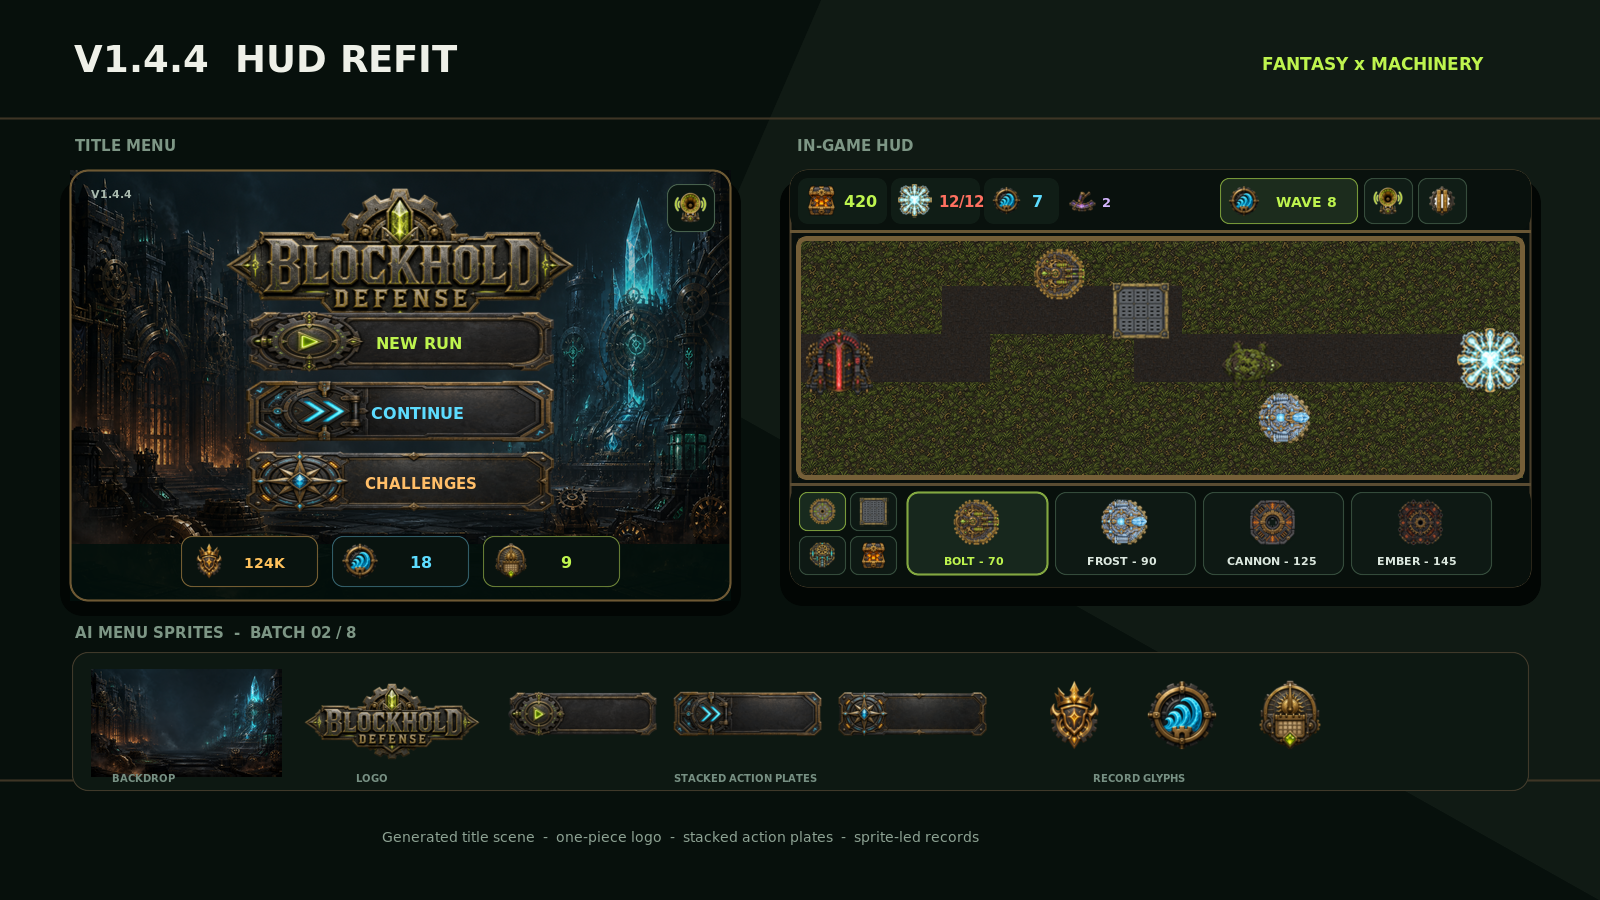
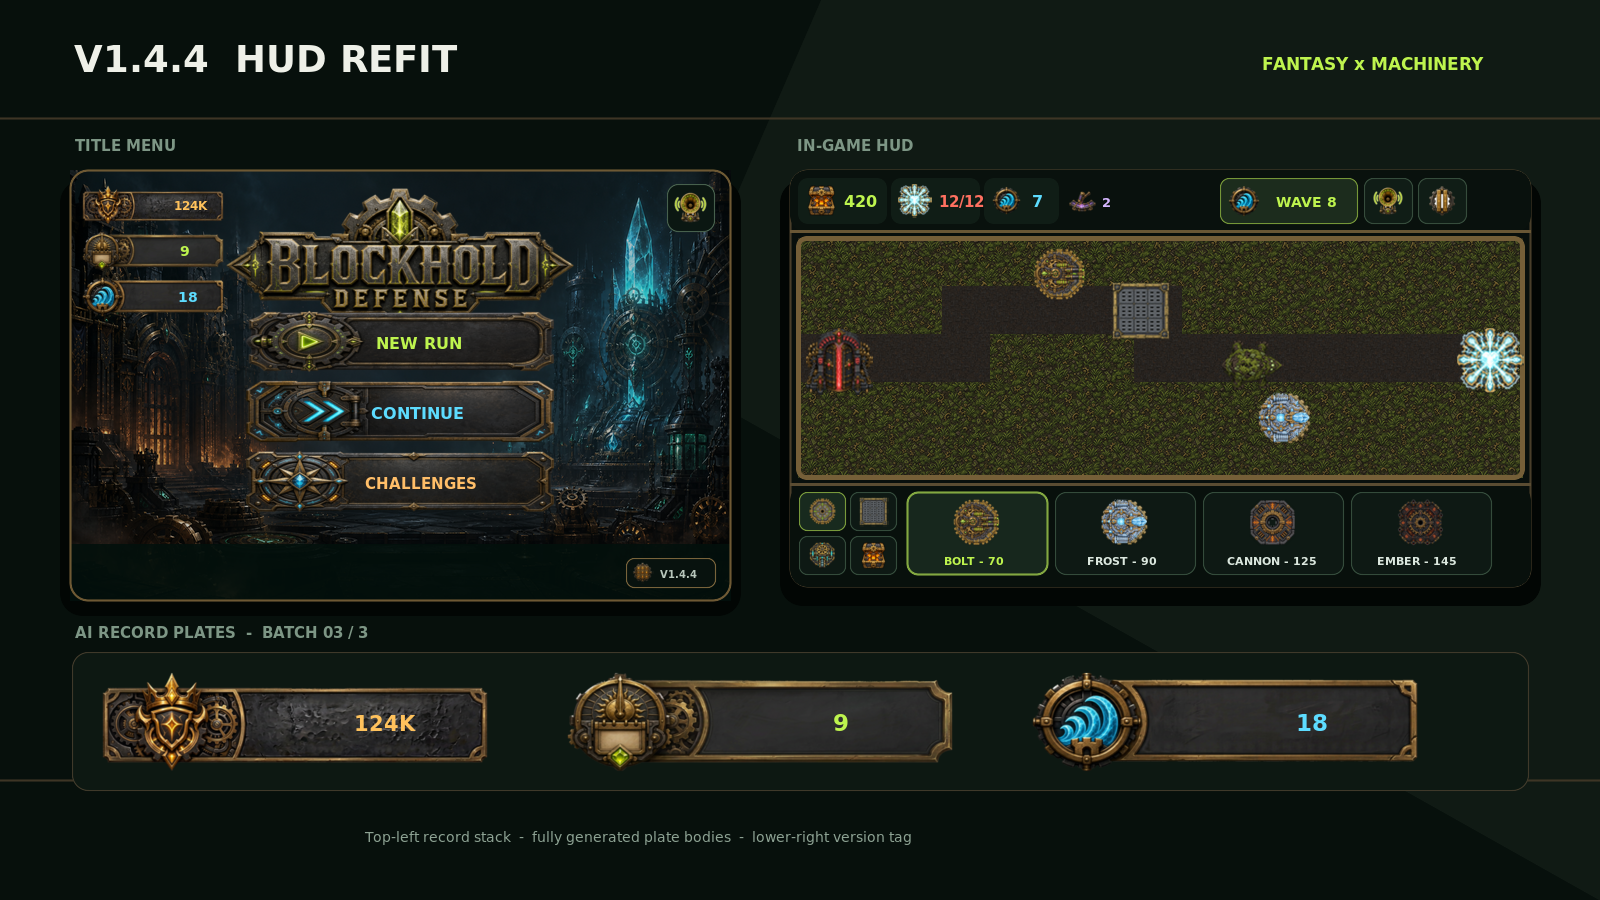
Complete sprite-backed title records
Add generated Best, Daily, and Wave record plates, stack them in the title's top-left, relocate the version tag, and refresh the deterministic preview and provenance docs.\n\nCo-authored-by: arena-agent <297053741+arena-agent@users.noreply.github.com>

diff --git a/app/src/main/java/ai/techtroy/blockhold/GameView.kt b/app/src/main/java/ai/techtroy/blockhold/GameView.kt
@@ -4135,7 +4135,6 @@ internal class GameView(context: Context) : SurfaceView(context), SurfaceHolder.
         drawMenuBackdrop(canvas, 42)
 
         // The generated logo is one packaged sprite: no live title typography remains.
-        drawText(canvas, versionLabel.uppercase(), dp(16f), dp(25f), dp(8f), Color.rgb(173, 191, 179), Paint.Align.LEFT, true)
         drawIconButton(
             canvas,
             titleSoundRect,
@@ -4153,17 +4152,18 @@ internal class GameView(context: Context) : SurfaceView(context), SurfaceHolder.
         drawTitleMenuButton(canvas, titleContinueRect, sprites.titleButtonContinue, "CONTINUE", Color.rgb(93, 220, 255), savedRunAvailable)
         drawTitleMenuButton(canvas, titleChallengeRect, sprites.titleButtonChallenges, "CHALLENGES", Color.rgb(255, 190, 104), true)
 
-        // Record glyphs replace the old tiny BEST / WAVE / DAILY sentence and sit in a
-        // dedicated lower rail where neither the logo nor the action stack obscures them.
-        val recordHeight = min(dp(48f), viewHeight * 0.085f)
-        val recordWidth = min(dp(128f), viewWidth * 0.17f)
-        val recordGap = min(dp(9f), viewWidth * 0.012f)
-        val recordTotal = recordWidth * 3f + recordGap * 2f
-        val recordLeft = (viewWidth - recordTotal) * 0.5f
-        val recordTop = viewHeight - recordHeight - min(dp(8f), viewHeight * 0.018f)
-        drawMenuRecordChip(canvas, recordLeft, recordTop, recordWidth, recordHeight, sprites.menuBadgeBest, formatNumber(bestScore), Color.rgb(255, 194, 92))
-        drawMenuRecordChip(canvas, recordLeft + recordWidth + recordGap, recordTop, recordWidth, recordHeight, sprites.menuBadgeWave, bestWave.toString(), Color.rgb(93, 220, 255))
-        drawMenuRecordChip(canvas, recordLeft + (recordWidth + recordGap) * 2f, recordTop, recordWidth, recordHeight, sprites.menuBadgeDaily, bestDailyWave.toString(), Color.rgb(190, 244, 78))
+        // Batch 03 gives each record its own generated plate and moves the three into a
+        // quiet top-left vertical stack. Order follows the menu hierarchy: Best, Daily, Wave.
+        val recordHeight = min(dp(52f), viewHeight * 0.078f)
+        val recordWidth = min(viewWidth * 0.235f, min(dp(190f), recordHeight * 3.65f))
+        val recordGap = min(dp(6f), viewHeight * 0.010f)
+        val recordLeft = min(dp(12f), viewWidth * 0.014f)
+        val recordTop = min(dp(12f), viewHeight * 0.020f)
+        drawMenuRecordPlate(canvas, recordLeft, recordTop, recordWidth, recordHeight, sprites.menuRecordBestPlate, formatNumber(bestScore), Color.rgb(255, 194, 92))
+        drawMenuRecordPlate(canvas, recordLeft, recordTop + recordHeight + recordGap, recordWidth, recordHeight, sprites.menuRecordDailyPlate, bestDailyWave.toString(), Color.rgb(190, 244, 78))
+        drawMenuRecordPlate(canvas, recordLeft, recordTop + (recordHeight + recordGap) * 2f, recordWidth, recordHeight, sprites.menuRecordWavePlate, bestWave.toString(), Color.rgb(93, 220, 255))
+
+        drawVersionTag(canvas)
     }
 
     private fun drawMenuBackdrop(canvas: Canvas, dimAlpha: Int) {
@@ -4195,14 +4195,25 @@ internal class GameView(context: Context) : SurfaceView(context), SurfaceHolder.
         )
     }
 
-    private fun drawMenuRecordChip(canvas: Canvas, left: Float, top: Float, width: Float, height: Float, icon: Bitmap, value: String, accent: Int) {
-        drawRoundedRect(canvas, left, top, left + width, top + height, height * 0.25f, Color.argb(224, 9, 19, 15))
-        strokePaint.style = Paint.Style.STROKE
-        strokePaint.strokeWidth = max(1f, dp(0.8f))
-        strokePaint.color = Color.argb(125, Color.red(accent), Color.green(accent), Color.blue(accent))
-        canvas.drawRoundRect(left, top, left + width, top + height, height * 0.25f, height * 0.25f, strokePaint)
-        drawBitmapCentered(canvas, icon, left + height * 0.52f, top + height * 0.5f, height * 0.82f)
+    private fun drawMenuRecordPlate(canvas: Canvas, left: Float, top: Float, width: Float, height: Float, plate: Bitmap, value: String, accent: Int) {
+        val rect = RectF(left, top, left + width, top + height)
+        canvas.drawBitmap(plate, null, rect, spritePaint)
         drawCenteredText(canvas, value, left + width * 0.70f, top + height * 0.5f, min(dp(12f), height * 0.36f), accent, true, true)
+    }
+
+    private fun drawVersionTag(canvas: Canvas) {
+        val height = min(dp(32f), viewHeight * 0.055f)
+        val width = min(viewWidth * 0.115f, min(dp(104f), height * 3.35f))
+        val margin = min(dp(12f), viewHeight * 0.020f)
+        val left = viewWidth - margin - width
+        val top = viewHeight - margin - height
+        drawRoundedRect(canvas, left, top, left + width, top + height, height * 0.28f, Color.argb(224, 8, 18, 14))
+        strokePaint.style = Paint.Style.STROKE
+        strokePaint.strokeWidth = max(1f, dp(0.7f))
+        strokePaint.color = Color.argb(135, 165, 139, 77)
+        canvas.drawRoundRect(left, top, left + width, top + height, height * 0.28f, height * 0.28f, strokePaint)
+        drawBitmapCentered(canvas, sprites.hudMenu, left + height * 0.50f, top + height * 0.5f, height * 0.74f)
+        drawCenteredText(canvas, versionLabel.uppercase(), left + width * 0.68f, top + height * 0.5f, min(dp(8f), height * 0.30f), Color.rgb(184, 199, 188), true)
     }
 
     private fun drawChallengeMenu(canvas: Canvas) {

diff --git a/app/src/main/java/ai/techtroy/blockhold/SpriteCatalog.kt b/app/src/main/java/ai/techtroy/blockhold/SpriteCatalog.kt
@@ -208,6 +208,9 @@ internal class SpriteCatalog(private val context: Context) {
     val menuBadgeBest = load("menu_badge_best")
     val menuBadgeWave = load("menu_badge_wave")
     val menuBadgeDaily = load("menu_badge_daily")
+    val menuRecordBestPlate = load("menu_record_best_plate")
+    val menuRecordDailyPlate = load("menu_record_daily_plate")
+    val menuRecordWavePlate = load("menu_record_wave_plate")
 
     private val utilities = mapOf(
         UtilityKind.BLOCK_GENERATOR to loadStrip("utility_block_generator"),

diff --git a/artwork/ui-production/v1.4.4/README.md b/artwork/ui-production/v1.4.4/README.md
@@ -1,6 +1,6 @@
-# v1.4.4 HUD and menu art — batches 01–02
+# v1.4.4 HUD and menu art — batches 01–03
 
-Eighteen image-model concepts were generated specifically for the v1.4.4 interface refit across two sessions, with each session kept below the ten-sprite production limit. The shared direction is **fantasy machinery**: tarnished brass, dark gunmetal, compact gear construction, engraved runes, and one clear semantic silhouette per control.
+Twenty-one approved runtime assets were generated specifically for the v1.4.4 interface refit across three bounded sessions. The shared direction is **fantasy machinery**: tarnished brass, dark gunmetal, compact gear construction, engraved runes, and one clear semantic silhouette per control. No session exceeded the ten-image production limit.
 
 ## Batch 01 — ten HUD controls
 
@@ -15,7 +15,42 @@ Eighteen image-model concepts were generated specifically for the v1.4.4 interfa
 - One unified `BLOCKHOLD DEFENSE` logo sprite.
 - Three full horizontal action plates: New Run, Continue, and Challenges.
 - Three record emblems: Best, Wave, and Daily.
-- The title actions are displayed as one vertical stack; the record emblems replace the former tiny text sentence.
+- The title actions are displayed as one vertical stack; the emblems remain useful in challenge, HUD, and result contexts.
+
+## Batch 03 — three full record plates
+
+- Best, Daily, and Wave each receive a complete generated horizontal plate rather than a painted rectangle around a standalone glyph.
+- The approved plates have empty metal value fields so runtime numbers remain crisp and readable.
+- The title stacks the three plates vertically in the top-left and moves the version tag to the bottom-right.
+- Three initial generations plus three clean-panel refinements produced the three retained assets: six image outputs this session, below the limit of ten.
+
+## Retained asset manifest
+
+| Batch | High-resolution source | Processed master / Android drawable |
+| --- | --- | --- |
+| 01 | `source/ui_play_source.png` | `processed/ui_play.png` / `hud_play.png` |
+| 01 | `source/ui_continue_source.png` | `processed/ui_continue.png` / `hud_continue.png` |
+| 01 | `source/ui_challenge_source.png` | `processed/ui_challenge.png` / `hud_challenge.png` |
+| 01 | `source/ui_sound_on_source.png` | `processed/ui_sound_on.png` / `hud_sound_on.png` |
+| 01 | `source/ui_sound_off_source.png` | `processed/ui_sound_off.png` / `hud_sound_off.png` |
+| 01 | `source/ui_pause_source.png` | `processed/ui_pause.png` / `hud_pause.png` |
+| 01 | `source/ui_reforge_source.png` | `processed/ui_reforge.png` / `hud_reforge.png` |
+| 01 | `source/ui_confirm_source.png` | `processed/ui_confirm.png` / `hud_confirm.png` |
+| 01 | `source/ui_back_source.png` | `processed/ui_back.png` / `hud_back.png` |
+| 01 | `source/ui_menu_source.png` | `processed/ui_menu.png` / `hud_menu.png` |
+| 02 | `source/title_background_source.png` | `processed/title_background.png` / `title_background.png` |
+| 02 | `source/title_logo_source.png` | `processed/title_logo.png` / `title_logo.png` |
+| 02 | `source/title_button_new_run_source.png` | `processed/title_button_new_run.png` / `title_button_new_run.png` |
+| 02 | `source/title_button_continue_source.png` | `processed/title_button_continue.png` / `title_button_continue.png` |
+| 02 | `source/title_button_challenges_source.png` | `processed/title_button_challenges.png` / `title_button_challenges.png` |
+| 02 | `source/menu_badge_best_source.png` | `processed/menu_badge_best.png` / `menu_badge_best.png` |
+| 02 | `source/menu_badge_wave_source.png` | `processed/menu_badge_wave.png` / `menu_badge_wave.png` |
+| 02 | `source/menu_badge_daily_source.png` | `processed/menu_badge_daily.png` / `menu_badge_daily.png` |
+| 03 | `source/menu_record_best_plate_source.png` | `processed/menu_record_best_plate.png` / `menu_record_best_plate.png` |
+| 03 | `source/menu_record_daily_plate_source.png` | `processed/menu_record_daily_plate.png` / `menu_record_daily_plate.png` |
+| 03 | `source/menu_record_wave_plate_source.png` | `processed/menu_record_wave_plate.png` / `menu_record_wave_plate.png` |
+
+Android drawable names in the last column are located in `app/src/main/res/drawable-nodpi/`.
 
 ## Directory roles
 

diff --git a/docs/HUD_V1.4.4.md b/docs/HUD_V1.4.4.md
@@ -9,7 +9,7 @@ v1.4.4 rebuilds the Canvas interface around a compact, sprite-first fantasy-mach
 ## Interface changes
 
 - **Title:** a generated 16:9 fortress-forge scene replaces the procedural grid; one generated logo sprite replaces live `BLOCKHOLD DEFENSE` typography. New Run, Continue, and Challenges now use three full generated button plates in a centered vertical stack.
-- **Records:** generated Best, Wave, and Daily emblems replace the former tiny record sentence and move into a dedicated lower rail with larger values.
+- **Records:** Best, Daily, and Wave now use complete generated plate sprites stacked vertically in the top-left. The version number moves out of that corner into a compact bottom-right tag.
 - **Challenge menu:** the new scene continues behind the challenge view, the Daily choice uses its generated emblem, and compact icon cards avoid repeated seed instructions and modifier descriptions.
 - **Top dock:** Blocks, Core, Wave, and secondary resources are icon/value chips. Reforge, wave, sound, and pause are now sprite controls. The old brand/phase sentence and TXT toggle are gone.
 - **Bottom dock:** category controls are icon tabs; defense cards retain only identity and cost. Selection panels focus on rank, damage/range, cost, and actions instead of repeating full descriptions.
@@ -52,7 +52,19 @@ This follow-up uses **eight** generated concepts, remaining within the ten-sprit
 | `menu_badge_wave.png` | wave record and HUD emblem | 128×128 |
 | `menu_badge_daily.png` | daily record/challenge emblem | 128×128 |
 
-The three button plates are aligned vertically and share one centerline. Best score, best endless wave, and best daily wave now occupy a separate bottom record rail represented by their emblems rather than repeated labels. Result cards also use sprite glyphs for Score, Wave, and Best.
+The three action plates are aligned vertically and share one centerline. The standalone record emblems remain active in challenge cards, the top HUD, and result cards.
+
+## AI record-plate batch 03
+
+The third pass adds three complete sprite bodies; the title no longer wraps standalone glyphs in painted rectangles:
+
+| Runtime drawable | Purpose | Runtime size |
+| --- | --- | --- |
+| `menu_record_best_plate.png` | best-score plate | 512×160 |
+| `menu_record_daily_plate.png` | best daily-wave plate | 512×160 |
+| `menu_record_wave_plate.png` | best endless-wave plate | 512×160 |
+
+The approved sources have clean empty metal value fields. Three base generations and three cleanup refinements were used—six image outputs this session, within the limit of ten—and only the three approved clean sources are retained. The plates render Best, Daily, and Wave in that order from top to bottom at the upper-left; the version tag now sits at the lower-right.
 
 ## Reproduction
 
@@ -67,11 +79,11 @@ The processor removes generated neutral backdrops with edge-connected flood fill
 ## Verification checklist
 
 - Android version: `1.4.4` (`18`)
-- Generated concepts: **10 in Batch 01 + 8 in Batch 02 = 18 total**
-- Batch 02 remains within the ten-sprite per-turn limit
-- New packaged Batch 02 assets: **8**
-- All seventeen transparent v1.4.4 sprites have transparent corner pixels; the opaque scene and all fixed-size assets match their documented dimensions
-- `SpriteCatalog`: all eighteen v1.4.4 runtime names loaded eagerly
-- Preview: 1600×900 PNG regenerated from packaged art and updated for Batch 02
+- Approved runtime art: **10 in Batch 01 + 8 in Batch 02 + 3 in Batch 03 = 21 assets**
+- Batch 03 generation/refinement outputs this session: **6**, within the ten-image limit
+- New packaged Batch 03 assets: **3**
+- All twenty transparent v1.4.4 sprites have transparent corner pixels; the opaque scene and all fixed-size assets match their documented dimensions
+- `SpriteCatalog`: all twenty-one v1.4.4 runtime names loaded eagerly
+- Preview: 1600×900 PNG regenerated from packaged art and updated for Batch 03
 - Static Kotlin pitfall lint: zero errors
 - Gradle compile: delegated to the repository's `Build APK` workflow; local Gradle 8.9 acquisition is blocked by the runner's TLS connection

diff --git a/README.md b/README.md
@@ -6,7 +6,7 @@ The game uses its own identity and mechanics. It does not include Minecraft name
 
 ## Build status and installation
 
-**v1.4.4 is the source-ready HUD refit.** The app is stamped `1.4.4` / `versionCode 18`; its title screen, challenge screen, in-game top dock, build dock, selection panels, Forgeworks, perk/evolution cards, pause screen, and result screen now share one compact sprite-first interface. Batch 01 adds ten AI-generated controls; Batch 02 adds eight generated title/menu assets, with both sessions staying within the ten-sprite limit and the same *fantasy × machinery* direction.
+**v1.4.4 is the source-ready HUD refit.** The app is stamped `1.4.4` / `versionCode 18`; its title screen, challenge screen, in-game top dock, build dock, selection panels, Forgeworks, perk/evolution cards, pause screen, and result screen now share one compact sprite-first interface. Three bounded *fantasy × machinery* batches provide 21 approved runtime assets: ten HUD controls, eight title/menu assets, and three full record plates.
 
 A v1.4.4 APK has not been produced locally: the runner had no preinstalled build toolchain, and direct Gradle 8.9 acquisition is blocked by its TLS connection. The repository's `Build APK` workflow is the compilation path for this source revision. The latest **built and retained** artifact is `artifacts/Blockhold-Defense-v1.4.3-installable.apk` (`1.4.3`, code `17`), which passes both APK verification scripts. See `artifacts/README.md` for its hash and signing-key warning; build v1.4.4 with JDK 17 + Android SDK 35 and reuse the v1.4.3 signing key for an in-place update.
 
@@ -26,18 +26,18 @@ See `artifacts/README.md` for artifact hashes and signing status, `docs/VERIFICA
 
 ## v1.4.4 HUD refit
 
-![v1.4.4 generated title scene, stacked menu buttons, sprite records, and in-game HUD](docs/V1.4.4_HUD_PREVIEW.png)
+![v1.4.4 generated title scene, stacked menu and record plates, relocated version tag, and in-game HUD](docs/V1.4.4_HUD_PREVIEW.png)
 
 > This is a source-generated layout reference built from the packaged sprites, not a device screenshot. Regenerate it with `tools/generate_hud_preview_v144.sh`.
 
 - Reclaims battlefield space with slimmer fixed top and bottom docks.
 - Replaces the title grid with a generated 16:9 fortress-forge scene and replaces live title typography with one unified generated logo sprite.
 - Stacks New Run, Continue, and Challenges vertically using three newly generated full-button plates.
-- Replaces the tiny Best/Wave/Daily record sentence with large sprite emblems and values in a dedicated lower rail; the same glyphs improve challenge, top-HUD, and result views.
+- Replaces the tiny Best/Wave/Daily record sentence with three complete generated plates stacked vertically in the top-left; the version tag moves to the bottom-right.
 - Replaces the old text-heavy top controls, category tabs, selection actions, workshop navigation, pause actions, and end-screen actions with sprite-led controls.
 - Keeps only decision-critical copy: values, costs, levels, wave countdown, short action names, and brief timed feedback. Persistent tutorial banners and repeated descriptions no longer cover the board.
 - Uses existing tower, trap, utility, item, sigil, corruption, evolution, and resource art inside their matching buttons.
-- Adds eighteen generated v1.4.4 assets across two bounded batches: ten HUD controls and eight title/menu assets.
+- Adds 21 approved generated v1.4.4 assets across three bounded batches; Batch 03 used six generation/refinement outputs to produce three clean final plates, remaining under the ten-image turn limit.
 - Stores high-resolution generation sources under `artwork/ui-production/v1.4.4/source/`; `tools/process_hud_sprites_v144.sh` deterministically isolates, normalizes, and publishes the Android drawables.
 
 ## How to play

diff --git a/docs/ASSET_LICENSES.md b/docs/ASSET_LICENSES.md
@@ -36,7 +36,7 @@ The Blockhold route-and-core icon family, store icon, interface composition, tar
 
 The initial v1.2 Forgeworks pass added 33 repository-generated vector-style PNG compositions through `tools/generate_forgeworks_art.sh`. Those placeholders and the seven former CC0-derived Utility compositions have since been replaced by the reviewed original sprite-production batches retained under `artwork/style-production/`.
 
-v1.4.4 adds eighteen project-specific image-model concepts across two bounded production batches. Batch 01 contains ten HUD controls (play, continue, challenge, sound on/off, pause, reforge, confirm, back, and menu). Batch 02 contains a fortress-forge menu scene, a unified title logo, three full action plates, and Best/Wave/Daily record emblems. The high-resolution outputs and reviewed Android derivatives are retained under `artwork/ui-production/v1.4.4/`; `tools/process_hud_sprites_v144.sh` records the deterministic isolation and publishing step. They were generated specifically for Blockhold Defense and contain no third-party sprite-pack pixels.
+v1.4.4 adds twenty-one approved project-specific image-model assets across three bounded production batches. Batch 01 contains ten HUD controls (play, continue, challenge, sound on/off, pause, reforge, confirm, back, and menu). Batch 02 contains a fortress-forge menu scene, a unified title logo, three full action plates, and Best/Wave/Daily record emblems. Batch 03 adds complete Best, Daily, and Wave record plates with clean runtime-value fields; three base generations and three cleanup refinements stayed within that session's ten-image limit. The retained high-resolution outputs and reviewed Android derivatives live under `artwork/ui-production/v1.4.4/`; `tools/process_hud_sprites_v144.sh` records the deterministic isolation and publishing step. They were generated specifically for Blockhold Defense and contain no third-party sprite-pack pixels.
 
 `docs/ASSET_HASHES_SHA256.txt` records the established bundled-art baseline by repository path and SHA-256. The original upstream ZIP archives were not retained in Git; bundled license hashes, retained generation sources, and per-output repository history form the release audit baseline.
 
